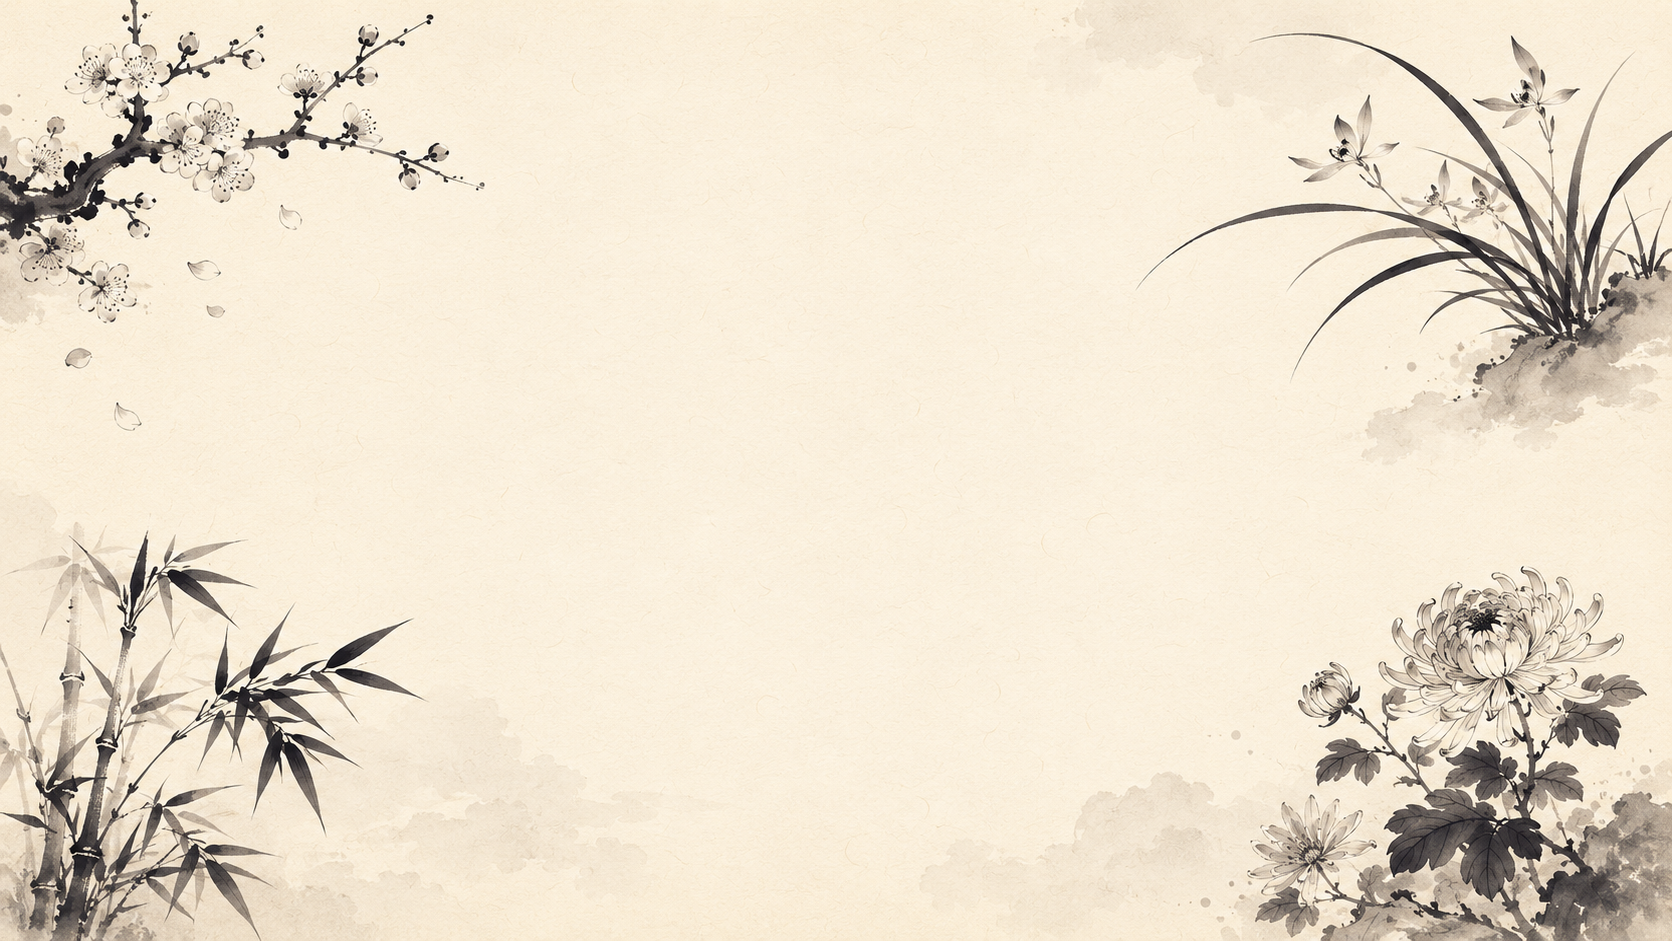
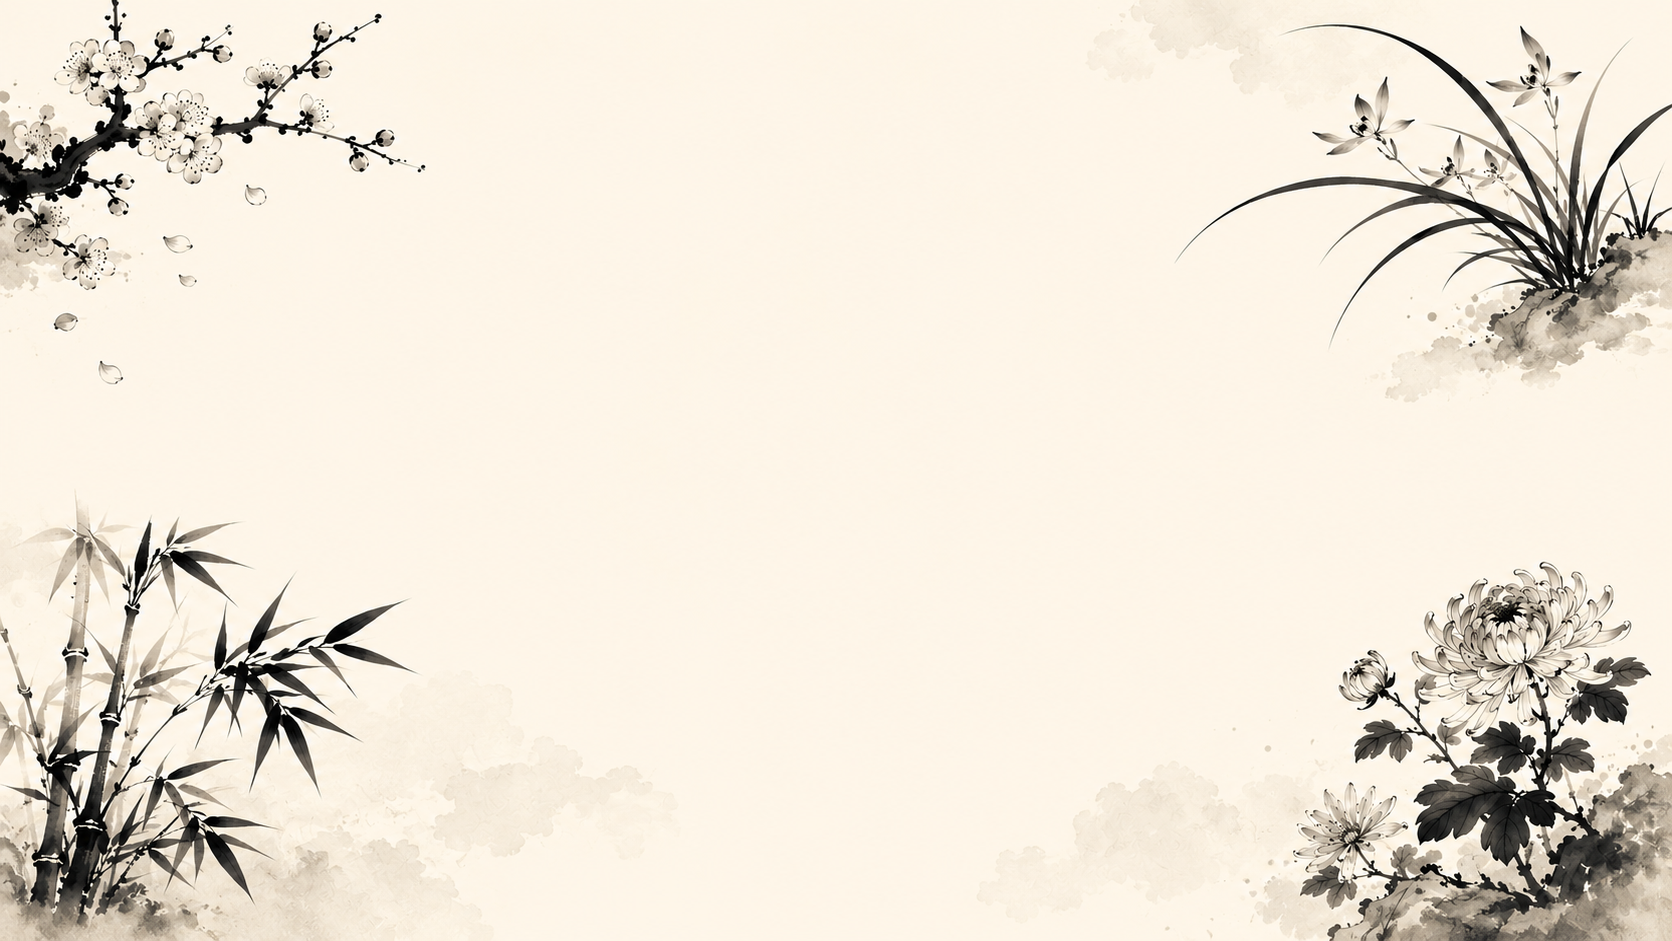
style: swap in inset-corner painting; switch back to background-size: cover
Replaced src/assets/paper-background.png with the regenerated version
that has the 四君子 inset roughly 10% from each edge. The motifs now
survive `cover`-style cropping on every viewport aspect, so the
painting can fill the viewport on desktop AND keep the plum / orchid /
bamboo / chrysanthemum visible on mobile portrait, 16:10 laptops,
4:3 tablets, etc.

CSS:
- background-size: contain → cover  (painting now fills the viewport).
- background-position: center top → center (no need to bias toward the
  top now that the corners aren't at the very edges).

File size 2.4 MB → 1.5 MB (still a PNG; can convert to JPEG ~400 KB
on request).

diff --git a/src/index.css b/src/index.css
@@ -25,16 +25,13 @@
   body {
     @apply min-h-screen font-serif;
     color: var(--color-text);
-    /* 古风 ink-painting backdrop with 四君子 already drawn into the four
-       corners. `contain` (instead of cover) keeps the whole painting
-       visible regardless of viewport aspect — the rice-paper fallback
-       colour fills any bands and blends with the painting's own cream.
-       The asset is 16:9 (1672×941) so 16:10 desktops show only tiny
-       bands; mobile portrait shows the painting near the top with the
-       puzzle content below. */
+    /* 古风 ink-painting backdrop with 四君子 inset from the corners. The
+       motifs sit ~10% in from each edge so `cover`-style cropping on
+       non-16:9 viewports only nibbles into the cream margin — the
+       plants stay visible on phones, tablets, and ultra-wides alike. */
     background-image: url('./assets/paper-background.png');
-    background-size: contain;
-    background-position: center top;
+    background-size: cover;
+    background-position: center;
     background-repeat: no-repeat;
     background-attachment: fixed;
     background-color: var(--color-bg);